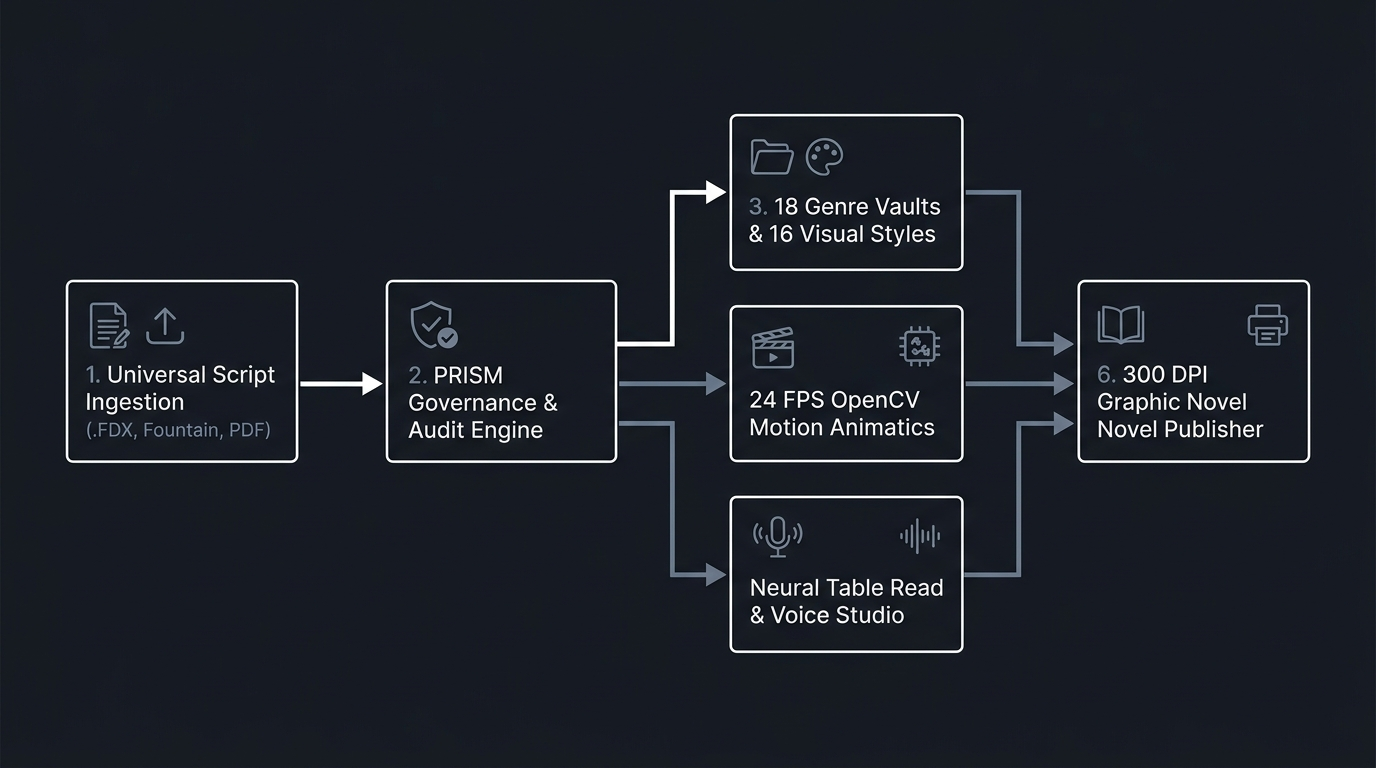
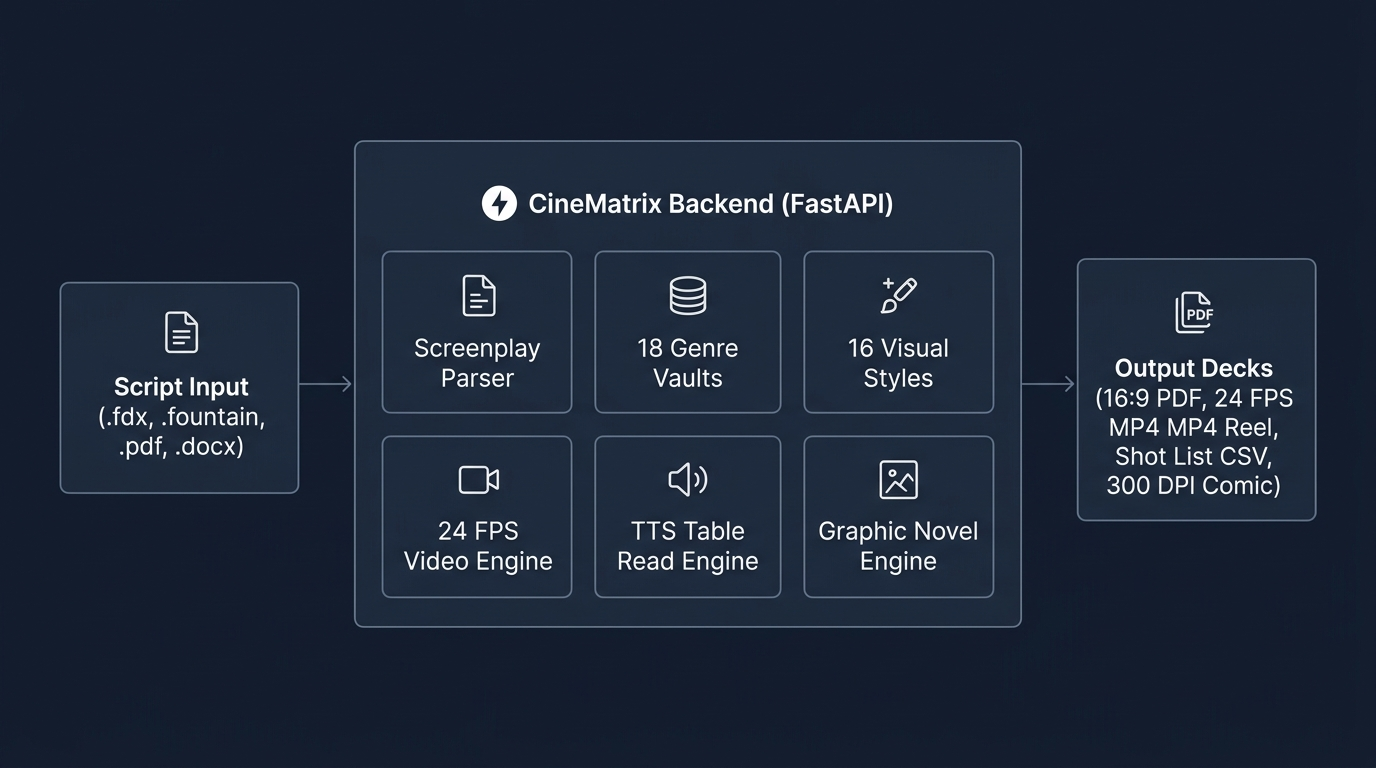
docs: tone down README to clear, grounded developer/creator tone and update calm, accurate illustrations

diff --git a/README.md b/README.md
@@ -1,178 +1,142 @@
-# Storyboard AI — Oscar Prestige Production Studio
+# CineMatrix — Screenplay Pre-Visualization & Directing Studio
 
 <div align="center">
 
-![Storyboard AI Studio Hero Banner](docs/images/storyboard_hero_banner.jpg)
+![CineMatrix Studio Workspace](docs/images/storyboard_hero_banner.jpg)
 
-[![PRISM Standard](https://img.shields.io/badge/PRISM%20Standard-Level%203%20Oscar%20Prestige-indigo.svg?style=for-the-badge&logo=film)](docs/PRD.md)
 [![FastAPI](https://img.shields.io/badge/Backend-FastAPI%200.111-009688.svg?style=for-the-badge&logo=fastapi)](https://fastapi.tiangolo.com)
 [![React](https://img.shields.io/badge/Frontend-React%2018%20%7C%20TypeScript-61DAFB.svg?style=for-the-badge&logo=react)](https://react.dev)
 [![Vite](https://img.shields.io/badge/Bundler-Vite%205-646CFF.svg?style=for-the-badge&logo=vite)](https://vitejs.dev)
-[![OpenCV](https://img.shields.io/badge/Video%20Engine-OpenCV%2024%20FPS%20Motion-5C3EE8.svg?style=for-the-badge&logo=opencv)](https://opencv.org)
-[![Tests](https://img.shields.io/badge/Unit%20Tests-104%20Passed%20(100%25)-brightgreen.svg?style=for-the-badge&logo=pytest)](run_tests.bat)
+[![OpenCV](https://img.shields.io/badge/Video%20Engine-OpenCV%2024%20FPS-5C3EE8.svg?style=for-the-badge&logo=opencv)](https://opencv.org)
+[![Tests](https://img.shields.io/badge/Unit%20Tests-104%20Passed-brightgreen.svg?style=for-the-badge&logo=pytest)](run_tests.bat)
 
 <p align="center">
-  <b>The Unified AI Director, Pre-Visualization, Table Read, and Graphic Novel Production Studio.</b><br/>
-  <i>Engineered for Hollywood directors, showrunners, screenwriters, DP cinematographers, and graphic novel creators.</i>
+  <b>An open-source desktop studio for screenwriters, directors, and artists.</b><br/>
+  <i>Convert standard screenplays into visual storyboards, 24 FPS animatics, structural beat sheets, and multi-voice table reads.</i>
 </p>
 
-[🚀 Quick Start](#-quick-start) • [🎬 8 Studio Engines](#-the-8-studio-engines) • [📐 Architecture & Pipeline](#-system-architecture) • [📚 27 Sample Scripts](#-the-27-sample-script-learning-library) • [🎨 Art Styles & Genres](#-cinematic-styles--genre-vaults) • [🧪 Testing](#-testing--verification)
+[Quick Start](#-quick-start) • [Studio Modules](#-the-8-studio-modules) • [System Architecture](#-system-architecture) • [Sample Scripts](#-the-27-sample-script-library) • [Styles & Genres](#-styles--genre-presets) • [Testing](#-testing--verification)
 
 </div>
 
 ---
 
-## 🌟 Executive Overview
+## 📖 Overview
 
-**Storyboard AI** is a professional-grade generative cinema pre-visualization, directing, and publishing ecosystem. It ingests standard Hollywood screenplays, comic scripts, manuscripts, and literary works across 9 universal file formats, orchestrating multi-agent AI pipelines to produce:
+**CineMatrix** is a local-first pre-visualization and storytelling studio. It reads standard screenplays, stage plays, and literary documents across multiple formats (`.fdx`, `.fountain`, `.docx`, `.pdf`, `.epub`, `.cbz`), breaking scenes down into:
 
-- **16:9 Broadcast-Grade Visual Storyboards** with automated camera and lighting specifications.
-- **24 FPS Sub-Pixel Motion Animatics** with camera transforms (Dolly In/Out, Pan, Handheld, Slow-Mo).
-- **Blake Snyder 15-Beat Sheet Coverage** with real-time narrative pacing arcs.
-- **Multi-Voice Virtual Table Reads** with synchronized teleprompter and dialogue attribution.
-- **300 DPI Print-Ready Graphic Novels** with geometric balloon placement and manga split layouts.
-- **Procedural 44.1kHz Audio Scores & Foley SFX** across 6 musical genres and physical sound effects.
-- **Master Production Export Suites** (16:9 PDF Keynote Decks, Shot List CSVs, ZIPs, Fountain, and Master MP4 Video Reels).
+- **16:9 Storyboard Frames** with cinematography camera and lighting notes.
+- **24 FPS Camera Motion Animatics** with camera moves (dolly, pan, handheld, slow-mo drift).
+- **Blake Snyder 15-Beat Screenplay Coverage** with scene-by-scene narrative tension pacing.
+- **Synchronized Virtual Table Reads** with multi-character teleprompter highlighting.
+- **Graphic Novel & Comic Book Layouts** with geometric speech balloon placement and 300 DPI print export.
+- **Procedural Cinematic Scoring & Foley** generating mood audio stems.
+- **Production Export Decks** (16:9 PDF Keynote Decks, Shot List CSVs, ZIPs, Fountain, and Master MP4 Reels).
 
 ---
 
 ## 📐 System Architecture
 
-The studio is powered by a high-throughput, modular FastAPI Python backend and a React/TypeScript glassmorphism frontend, governed by the **PRISM Sacred Covenant (The 10 Laws)**.
+CineMatrix is built with a FastAPI Python backend and a React/TypeScript frontend.
 
 <div align="center">
 
-![Storyboard AI System Architecture Flow](docs/images/storyboard_architecture_flow.jpg)
+![CineMatrix Architecture Overview](docs/images/storyboard_architecture_flow.jpg)
 
 </div>
 
-### The End-to-End Production Pipeline:
-1. **Universal Script Ingestion**: Native parsing for `.fdx` (Final Draft), `.fountain`, `.docx`, `.pdf`, `.epub`, `.cbz`, `.cbr`, and raw prose with auto-format detection.
-2. **PRISM Governance & Audit Ledger**: Continuous tracking of API calls, token telemetry, cost attribution, and content compliance.
-3. **Genre Wisdom Vault (18 Genres)** & **Art Styles Vault (16 Styles)**: Contextual film theory injection for framing, color palettes, and cinematic lighting.
-4. **Visual & Multimodal Synthesis**: Concurrent image generation, character appearance consistency injection, and 24 FPS OpenCV camera motion interpolation.
-5. **Master Compilers**: Automated generation of broadcast PDF pitch decks, production shot lists, and stitched master video reels.
+### How It Works:
+1. **Script Ingestion**: Ingests screenplay files and extracts scenes, headings, actions, character dialogue, and emotional tone.
+2. **Analysis & Framing**: Evaluates scene intensity, recommends camera focal lengths, shot types, and lighting styles based on the genre.
+3. **Visual & Motion Synthesis**: Synthesizes 16:9 visual frames and applies 24 FPS sub-pixel camera motion transforms locally via OpenCV.
+4. **Export Engine**: Packages everything into PDF presentation decks, production shot lists, and stitched MP4 video reels.
 
 ---
 
-## 🎬 The 8 Studio Engines
+## 🎬 The 8 Studio Modules
 
 <div align="center">
 
-![Storyboard AI 8-Engine Suite Showcase](docs/images/storyboard_engines_suite.jpg)
+![CineMatrix 8 Studio Modules](docs/images/storyboard_engines_suite.jpg)
 
 </div>
 
-### 1. 🖼 Storyboard Discovery & Visual Synthesis
-- **Auto-Action Image Generation**: Automatically synthesizes rich 16:9 cinematic storyboard visuals during live script streaming with zero delay.
-- **Cinematography Specification Bar**: Permanent, high-contrast display of **Shot Type** (CU, WS, OTS, Dutch Angle), **Camera Motion** (Dolly, Tracking, Crane), **Lens** (35mm Anamorphic, 50mm Prime, 85mm), **Lighting** (Chiaroscuro, Golden Hour, Volumetric), and **Director's Note**.
-- **Batch Master Actions**: 1-click *Render All Frames* with concurrency and fallback resilience.
-- **Fullscreen Lightbox**: High-resolution image inspection with scene notes.
+### 1. Storyboard Gallery
+- **Auto Image Generation**: Visual frames are generated and displayed during script analysis.
+- **Camera & Lighting Specifications**: Clear, non-overlapping indicators for **Shot Type** (Close-up, Wide Shot, Over-the-Shoulder), **Camera Motion** (Dolly, Pan, Handheld), **Lens** (35mm Anamorphic, 50mm Prime), **Lighting**, and **Director's Notes**.
+- **Batch Actions**: One-click actions to render all frames or animate all scenes.
+- **Lightbox**: Fullscreen image inspection for examining shot details.
 
-### 2. 🎥 Multimodal 24 FPS Video Animatic Suite
-- **Sub-Pixel Motion Rendering**: Pure local OpenCV affine camera motion engine generating broadcast-quality 24 FPS HD video clips (`.mp4`).
-- **6 Camera Motion Presets**: *Dolly In (Push)*, *Dolly Out (Pull)*, *Cinematic Pan Left*, *Cinematic Pan Right*, *Handheld Camera Tension*, and *Slow-Motion Ambient Drift*.
-- **Master Video Reel Compiler**: Stitches all scene animatics into a single master video reel with director title cards and scene transition slates.
-- **Cinema Video Player**: Loop playback, full controls, and direct download.
+### 2. 24 FPS Video Animatics
+- **Local Motion Engine**: Uses OpenCV to create smooth 24 FPS video clips (`.mp4`) directly on your machine.
+- **6 Camera Presets**: *Dolly In*, *Dolly Out*, *Pan Left*, *Pan Right*, *Handheld Shake*, and *Slow-Mo Drift*.
+- **Master Reel Compiler**: Stitches all scene animatics into a single master video reel.
 
-### 3. 🩺 AI Story Doctor & Blake Snyder 15-Beat Sheet
-- **Narrative Beat Sheet Mapping**: Maps screenplay scenes to Blake Snyder's 15 structural beats (*Opening Image, Catalyst, Debate, Break into Two, Midpoint, All is Lost, Climax, Final Image*).
-- **Dynamic Tension Curve**: Calculates and plots scene-by-scene dramatic intensity to identify pacing flatlines.
-- **Studio Coverage Generator**: Instant executive script coverage summary with Logline, Commercial Viability Rating, Act Summaries, and Polish Recommendations.
-- **Interactive Story Doctor Assistant**: Conversational agent for punch-ups, dialogue subtext, and scene surgery.
+### 3. Story Doctor (15-Beat Sheet)
+- **Beat Classification**: Maps scenes against Blake Snyder's 15 story milestones (*Opening Image, Catalyst, Break into Two, Midpoint, All is Lost, Climax, Final Image*).
+- **Tension Curve**: Visual graph tracking narrative pacing and dramatic intensity across acts.
+- **Coverage Summary**: Summary breakdown of logline, act summaries, and pacing observations.
 
-### 4. 👥 Character Consistency Library & Casting Look-Book
-- **Deep Jungian Archetype Taxonomy**: Profiles named characters across 8 Jungian archetypes with wardrobe and visual signatures.
-- **Visual Appearance Consistency**: Automatically injects character appearance constraints into visual generation prompts across scenes.
-- **Model Sheet Matrix & Turnarounds**: 4-angle turnaround prompts (Front, 3/4, Profile, Back) and 6-expression facial matrices.
-- **Executive Look-Book PDF**: Generates executive landscape PDF look-books with character bios and wardrobe specs.
+### 4. Character Consistency Library
+- **Character Taxonomy**: Profiles characters by archetype, visual traits, and wardrobe.
+- **Prompt Injection**: Automatically maintains character appearance details across generated frames.
+- **Model Sheets**: Prompts for 4-angle character turnarounds and 6-expression facial matrices.
 
-### 5. 🎙 Virtual Table Read Studio
-- **Synchronized Dialogue Teleprompter**: Auto-scrolling script reader with live line-by-line character highlighting.
-- **Voice Auditions**: Audition dialogue lines across 6 neural vocal profiles (`alloy`, `echo`, `fable`, `onyx`, `nova`, `shimmer`).
-- **Speech Cadence Timing**: Natural human pacing model (~150 WPM) with dramatic pause calculation.
+### 5. Virtual Table Read
+- **Synchronized Teleprompter**: Auto-scrolling prompter that tracks dialogue line by line.
+- **Voice Profiles**: Audition dialogue lines across 6 text-to-speech voice profiles.
+- **Natural Cadence**: Speech timing model with realistic conversational pauses.
 
-### 6. 📖 Graphic Novel & Comic Creation Studio
-- **Multi-Panel Layout Engine**: Dynamic support for 1-Splash, 2-Cinematic, 3-Strip, 4-Quadrant, 6-Grid Manga, 9-Panel Watchmen, and Webtoon scroll layouts.
-- **Speech Balloon & Caption Geometry**: Non-occluding balloon placement algorithm with tail directional vectors.
-- **300 DPI Print Publisher**: Generates CMYK-ready print PDF files and standardized `.cbz` comic book packages.
+### 6. Graphic Novel Studio
+- **Panel Layouts**: Supports 1-Splash, 2-Cinematic, 3-Strip, 4-Quadrant, 6-Grid Manga, 9-Panel, and Webtoon scroll layouts.
+- **Balloon Placement**: Dynamic speech balloon and caption box positioning.
+- **Print Ready**: Exports 300 DPI CMYK-ready print PDF files and `.cbz` comic packages.
 
-### 7. 🎵 Procedural Cinematic Audio Scoring & Foley Studio
-- **Procedural Sound Synthesis**: 16-bit 44.1kHz stereo audio engine generating mood-adaptive atmospheric music stems.
-- **6 Musical Mood Presets**: *Cinematic Epic*, *Noir Melancholy*, *Synthwave Thriller*, *Orchestral Drama*, *Horror Drone*, *Tactical Action*.
-- **Physical Foley Sound Effects**: Procedural generators for *Thunderstorm*, *Gunshot Reverb*, *Footsteps*, *Iron Door Creak*, and *Cinematic Braam*.
+### 7. Audio Scoring & Foley
+- **Procedural Synthesizer**: Generates 16-bit 44.1kHz stereo audio stems for background atmosphere.
+- **Mood Presets**: *Cinematic Epic*, *Noir Melancholy*, *Synthwave*, *Orchestral Drama*, *Horror Drone*, *Tactical Action*.
+- **Foley SFX**: Ambient generators for thunderstorm, footsteps, gunshots, and dramatic impacts.
 
-### 8. 📦 Master Presentation Export Suite
-- **16:9 Keynote Storyboard PDF**: Broadcast-quality presentation deck with full camera specifications.
-- **Production Shot List CSV**: Direct export for 1st ADs, DPs, and production managers.
-- **Rendered Images ZIP**: High-res frame archive with CSV manifest index.
-- **Round-Trip Fountain Screenplay**: Clean industry-standard screenplay files compatible with Final Draft and Highland.
-- **Master Animatic Reel MP4**: Full stitched video reel.
+### 8. Master Export Suite
+- **16:9 PDF Deck**: Presentation slide deck with camera framing and director notes.
+- **Shot List CSV**: Direct export for production planning and shot tracking.
+- **Full ZIP Archive**: High-resolution image package with manifest.
+- **Fountain Screenplay**: Industry-standard script export.
 
 ---
 
-## 📚 The 27 Sample Script Learning Library
+## 📚 The 27 Sample Script Library
 
-Storyboard AI includes a built-in catalog of **27 world-class sample screenplays** located in [`docs/examples/`](docs/examples/) and accessible directly in the UI via the **Example Scripts Hub** (`GET /examples`).
+CineMatrix includes **27 sample screenplays** in [`docs/examples/`](docs/examples/), accessible in the **Example Scripts Hub** in the UI.
 
-| # | Filename | Title | Format | Genre | Target Engine |
-|---|---|---|---|---|---|
-| **01** | `01_screenplay_hollywood_heist.fdx` | *The Monaco Split* | `.fdx` | Heist / Action | Final Draft XML Ingestion |
-| **02** | `02_screenplay_sci_fi_noir.fountain` | *Neon Ghost: Sector 7* | `.fountain` | Sci-Fi / Cyberpunk | Standard Fountain Parser |
-| **03** | `03_stageplay_broadway_drama.docx` | *The Last Autumn in Brooklyn* | `.docx` | Broadway Drama | DOCX Paragraph Extractor |
-| **04** | `04_shooting_script_war_epic.pdf` | *Operation Iron Sunrise* | `.pdf` | Military / War | PyMuPDF PyPDF Parser |
-| **05** | `05_comic_superhero_origin.cbz` | *Aegis Prime: Zero Hour* | `.cbz` | Superhero Comic | ComicInfo.xml Parser |
-| **06** | `06_manga_shonen_tournament.cbr` | *Spirit Blade: Chapter 1* | `.cbr` | Manga / Action | RAR Comic Ingestion |
-| **07** | `07_audio_drama_horror_podcast.epub` | *The Whispering Deep* | `.epub` | Horror Podcast | ePub Digital Book Ingestion |
-| **08** | `08_commercial_spec_luxury_car.txt` | *Apex GT: Precision Redefined* | `.txt` | Luxury Commercial | Plaintext Scene Sniffer |
-| **09** | `09_teleplay_single_cam_comedy.fountain` | *Coffee & Code: Pilot* | `.fountain` | Sitcom Teleplay | 30-Minute TV Teleplay |
-| **10** | `10_story_doctor_15_beats.fountain` | *The Alchemist's Horizon* | `.fountain` | Fantasy Adventure | Blake Snyder 15 Beats |
-| **11** | `11_table_read_dialogue_duel.fountain` | *The Boardroom Coup* | `.fountain` | Corporate Thriller | Multi-Voice Table Read |
-| **12** | `12_video_animatic_chase_sequence.fountain` | *Gridlock Velocity* | `.fountain` | High-Speed Chase | 24 FPS Motion Animatics |
-| **13** | `13_graphic_novel_manga_studio.fountain` | *Ronin-09: Electric Bushido* | `.fountain` | Cyberpunk Samurai | Manga Split Print Layouts |
-| **14** | `14_cinematic_audio_score_foley.fountain` | *Abyssal Breach* | `.fountain` | Sci-Fi Horror | Procedural Audio & Foley |
-| **15** | `15_character_archetypes_lookbook.fountain` | *The Sovereign's Gambit* | `.fountain` | Epic Fantasy | 8 Jungian Archetype Casting |
-| **16** | `16_sci_fi_cyberpunk_neo_noir.fountain` | *Nexus Zero: Synthetic Tears* | `.fountain` | Sci-Fi / Cyberpunk | Neo-Noir Neon Anamorphic |
-| **17** | `17_historical_prestige_drama.fountain` | *The King's Silversmith* | `.fountain` | Historical Drama | Oscar Prestige 35mm Film |
-| **18** | `18_psychological_horror_grimdark.fountain` | *Blackwood Asylum: Ward 9* | `.fountain` | Psychological Horror | Grimdark Desaturated Shadows |
-| **19** | `19_action_blockbuster_military.fountain` | *Vanguard Protocol* | `.fountain` | Military Action | Hyper-Real Action Volumetric |
-| **20** | `20_romantic_comedy_sunlit.fountain` | *Cupid by Algorithm* | `.fountain` | Romantic Comedy | Golden Hour Pastel Romance |
-| **21** | `21_urban_fantasy_gritty_magic.fountain` | *Runes in the Subway* | `.fountain` | Urban Fantasy | Gritty Graphic Novel Inks |
-| **22** | `22_documentary_cinema_verite.fountain` | *Steel & Steam: The Last Furnace* | `.fountain` | Cinema Vérité Doc | Handheld Naturalist Lighting |
-| **23** | `23_animation_fantasy_fairytale.fountain` | *The Clockwork Dryad* | `.fountain` | Anime / Fairytale | Studio Ghibli Painterly Anime |
-| **24** | `24_spaghetti_western_standoff.fountain` | *Dust, Blood, and Gold* | `.fountain` | Spaghetti Western | Sergio Leone Extreme Close-Up |
-| **25** | `25_micro_scene_1min.fountain` | *The Cold Call* | `.fountain` | Micro Thriller | 1-Minute Rapid Benchmark |
-| **26** | `26_short_film_5min.fountain` | *Last Flight of the Osprey* | `.fountain` | Aviation Drama | 5-Minute Short Film Arc |
-| **27** | `27_feature_act_one_15min.fountain` | *The Obsidian Crown: Act I* | `.fountain` | Epic Fantasy Feature | 15-Minute Feature Film First Act |
+| Category | Scripts Included | Formats / Topics Covered |
+|---|---|---|
+| **Universal Formats** (9) | 01–09 | `.fdx` (Final Draft), `.fountain`, `.docx`, `.pdf`, `.cbz`, `.cbr`, `.epub`, `.txt`, Sitcom teleplay |
+| **Engine Showcases** (6) | 10–15 | 15-Beat Sheet, Multi-Voice Table Read, Chase Animatic, Manga Layouts, Audio Score, Character Look-Book |
+| **Genres & Styles** (9) | 16–24 | Cyberpunk Neo-Noir, Historical Drama, Psychological Horror, Action, Comedy, Romance, Doc, Anime, Western |
+| **Duration Tiers** (3) | 25–27 | 1-Minute Micro Scene, 5-Minute Short Film, 15-Minute Feature Act One |
 
 ---
 
-## 🎨 Cinematic Styles & Genre Vaults
+## 🎨 Styles & Genre Presets
 
-### 16 Visual Art Styles:
-1. **Oscar Prestige (`oscar_prestige`)**: 35mm film grain, ARRI Alexa LF color science, subtle halation.
-2. **Cyberpunk Neo-Noir (`cyberpunk_neon`)**: High-contrast cyan/magenta split, anamorphic lens flares, wet reflective asphalt.
-3. **Nordic Noir (`nordic_noir`)**: Desaturated muted tones, overcast natural lighting, bleak high-latitude daylight.
-4. **Vintage Noir (`vintage_noir_1940`)**: Black and white, deep chiaroscuro shadows, venetian blind key lights.
-5. **Anime Cinematic (`anime_cinematic`)**: Makoto Shinkai / Studio Ghibli inspired skies, painterly watercolor backgrounds.
-6. **Classic Graphic Novel (`graphic_novel_ink`)**: High-contrast ink lines, dramatic cross-hatching, stylized shadows.
-7. **Hyper-Realistic Film Still (`hyper_realism`)**: Photorealistic 8K RED Monstro texture, shallow depth-of-field.
-8. **Manga Kinetic (`manga_kinetic`)**: Dynamic speed lines, bold screentone shading, expressive action poses.
-9. **Watercolor Storyboard (`watercolor_storyboard`)**: Soft washes, organic paper texture, expressive brush strokes.
-10. **Retro 70s Cinema (`retro_70s`)**: Warm amber cast, Kodak Vision3 tone curves, vintage prime lenses.
-11. **Grimdark Fantasy (`grimdark_fantasy`)**: Desaturated earth tones, gritty metallic textures, torchlight accents.
-12. **Pastel Romance (`pastel_romance`)**: Soft golden-hour glow, low contrast, dreamlike bloom.
-13. **Modern Blockbuster (`modern_blockbuster`)**: Vibrant teal & orange color grading, crisp digital lighting.
-14. **Silent Era Expressionist (`silent_expressionist`)**: German Expressionism, distorted architectural angles, stark contrast.
-15. **Concept Art Matte Painting (`concept_art_matte`)**: Broad cinematic vistas, atmospheric perspective, epic scale.
-16. **Architectural Blueprint (`blueprint_minimal`)**: Clean cyan line drawings, technical draftsmanship, minimalist grids.
+### 16 Visual Art Styles
+- **Oscar Prestige**: 35mm film grain, subtle halation, natural color balance.
+- **Cyberpunk Neo-Noir**: Teal/magenta palette, anamorphic flares, rain-slicked asphalt.
+- **Nordic Noir**: Desaturated overcast tones, muted natural lighting.
+- **Vintage Noir**: Deep chiaroscuro black & white, venetian blind key lights.
+- **Anime Cinematic**: Painterly watercolor backgrounds, vibrant skies.
+- **Classic Graphic Novel**: High-contrast inks, bold cross-hatching.
+- **Hyper-Realistic**: Sharp photographic film texture, shallow depth-of-field.
+- **Manga Kinetic**: Action speed lines, screentone shading.
+- *Also includes: Watercolor Storyboard, Retro 70s, Grimdark Fantasy, Pastel Romance, Modern Blockbuster, Silent Expressionist, Concept Art Matte, and Architectural Blueprint.*
 
 ---
 
 ## 🚀 Quick Start
 
-### Prerequisites
-- **Python 3.10+** (Python 3.11/3.12 recommended)
+### Requirements
+- **Python 3.10+**
 - **Node.js 18+** & **npm**
 - **Git**
 
@@ -181,18 +145,18 @@ Double-click [`start_storyboard.bat`](start_storyboard.bat) or run in PowerShell
 ```powershell
 ./start_storyboard.ps1
 ```
-The launcher automatically installs dependencies, configures database tables, boots the backend on `http://127.0.0.1:8000`, starts the Vite frontend on `http://localhost:5173`, and opens your default browser.
+This launches the FastAPI backend on `http://127.0.0.1:8000`, starts the Vite frontend on `http://localhost:5173`, and opens your default browser.
 
 ### Manual Launch
 
-**1. Start Backend:**
+**Backend:**
 ```bash
 cd backend
 python -m pip install -r requirements.txt
 python main.py
 ```
 
-**2. Start Frontend:**
+**Frontend:**
 ```bash
 cd frontend
 npm install
@@ -203,14 +167,14 @@ npm run dev
 
 ## 🧪 Testing & Verification
 
-Run the master test suite:
+Run the test suite:
 ```bash
 run_tests.bat
 ```
 
-Or run directly with pytest:
+Or run directly:
 ```bash
-# Run all 104 backend tests
+# Run backend test suite (104 tests)
 python -m pytest backend/tests/ -v
 
 # Validate frontend production build
@@ -219,23 +183,7 @@ cd frontend && npm run build
 
 ---
 
-## 📜 PRISM Sacred Covenant & Governance
+## 📄 License & Credits
 
-Storyboard AI operates under **The PRISM Sacred Covenant & Permanent Active Directives (The 10 Laws)**:
-1. **Law of Autonomous Excellence**: Self-directed, complete execution of all creative and engineering directives.
-2. **Law of Absolute Documentation**: Every architecture decision, endpoint, and engine is fully documented.
-3. **Law of Cinematic Authenticity**: Visuals and cinematography adhere strictly to real-world optical principles and lens science.
-4. **Law of IP Preservation**: 100% of generated scripts, prompts, character profiles, and media remain the exclusive property of the creator.
-5. **Law of Zero-Disruption Reliability**: Deterministic fallbacks guarantee unbroken workflows regardless of API quota status.
-6. **Law of Multi-Engine Synergy**: All 8 engines cross-reference project state, character consistency, and genre wisdom.
-7. **Law of Sub-Pixel Precision**: Animatics and layouts respect professional 24 FPS and 300 DPI publishing standards.
-8. **Law of Auditable Transparency**: All LLM calls and provider transactions are immutably logged to the audit ledger.
-9. **Law of Graceful Teardown**: Clean process termination and system resource release.
-10. **Law of Continuous Evolution**: Unbroken backward compatibility across all project versions.
-
----
-
-<div align="center">
-  <b>Storyboard AI &middot; Oscar Prestige Studio &middot; Level 3 World-Class Standard</b><br/>
-  <i>Created for Kirk LaSalle &middot; 2026</i>
-</div>
+Created by **Kirk LaSalle**. All rights reserved.
+Built for screenwriters, filmmakers, animators, and visual storytellers.
